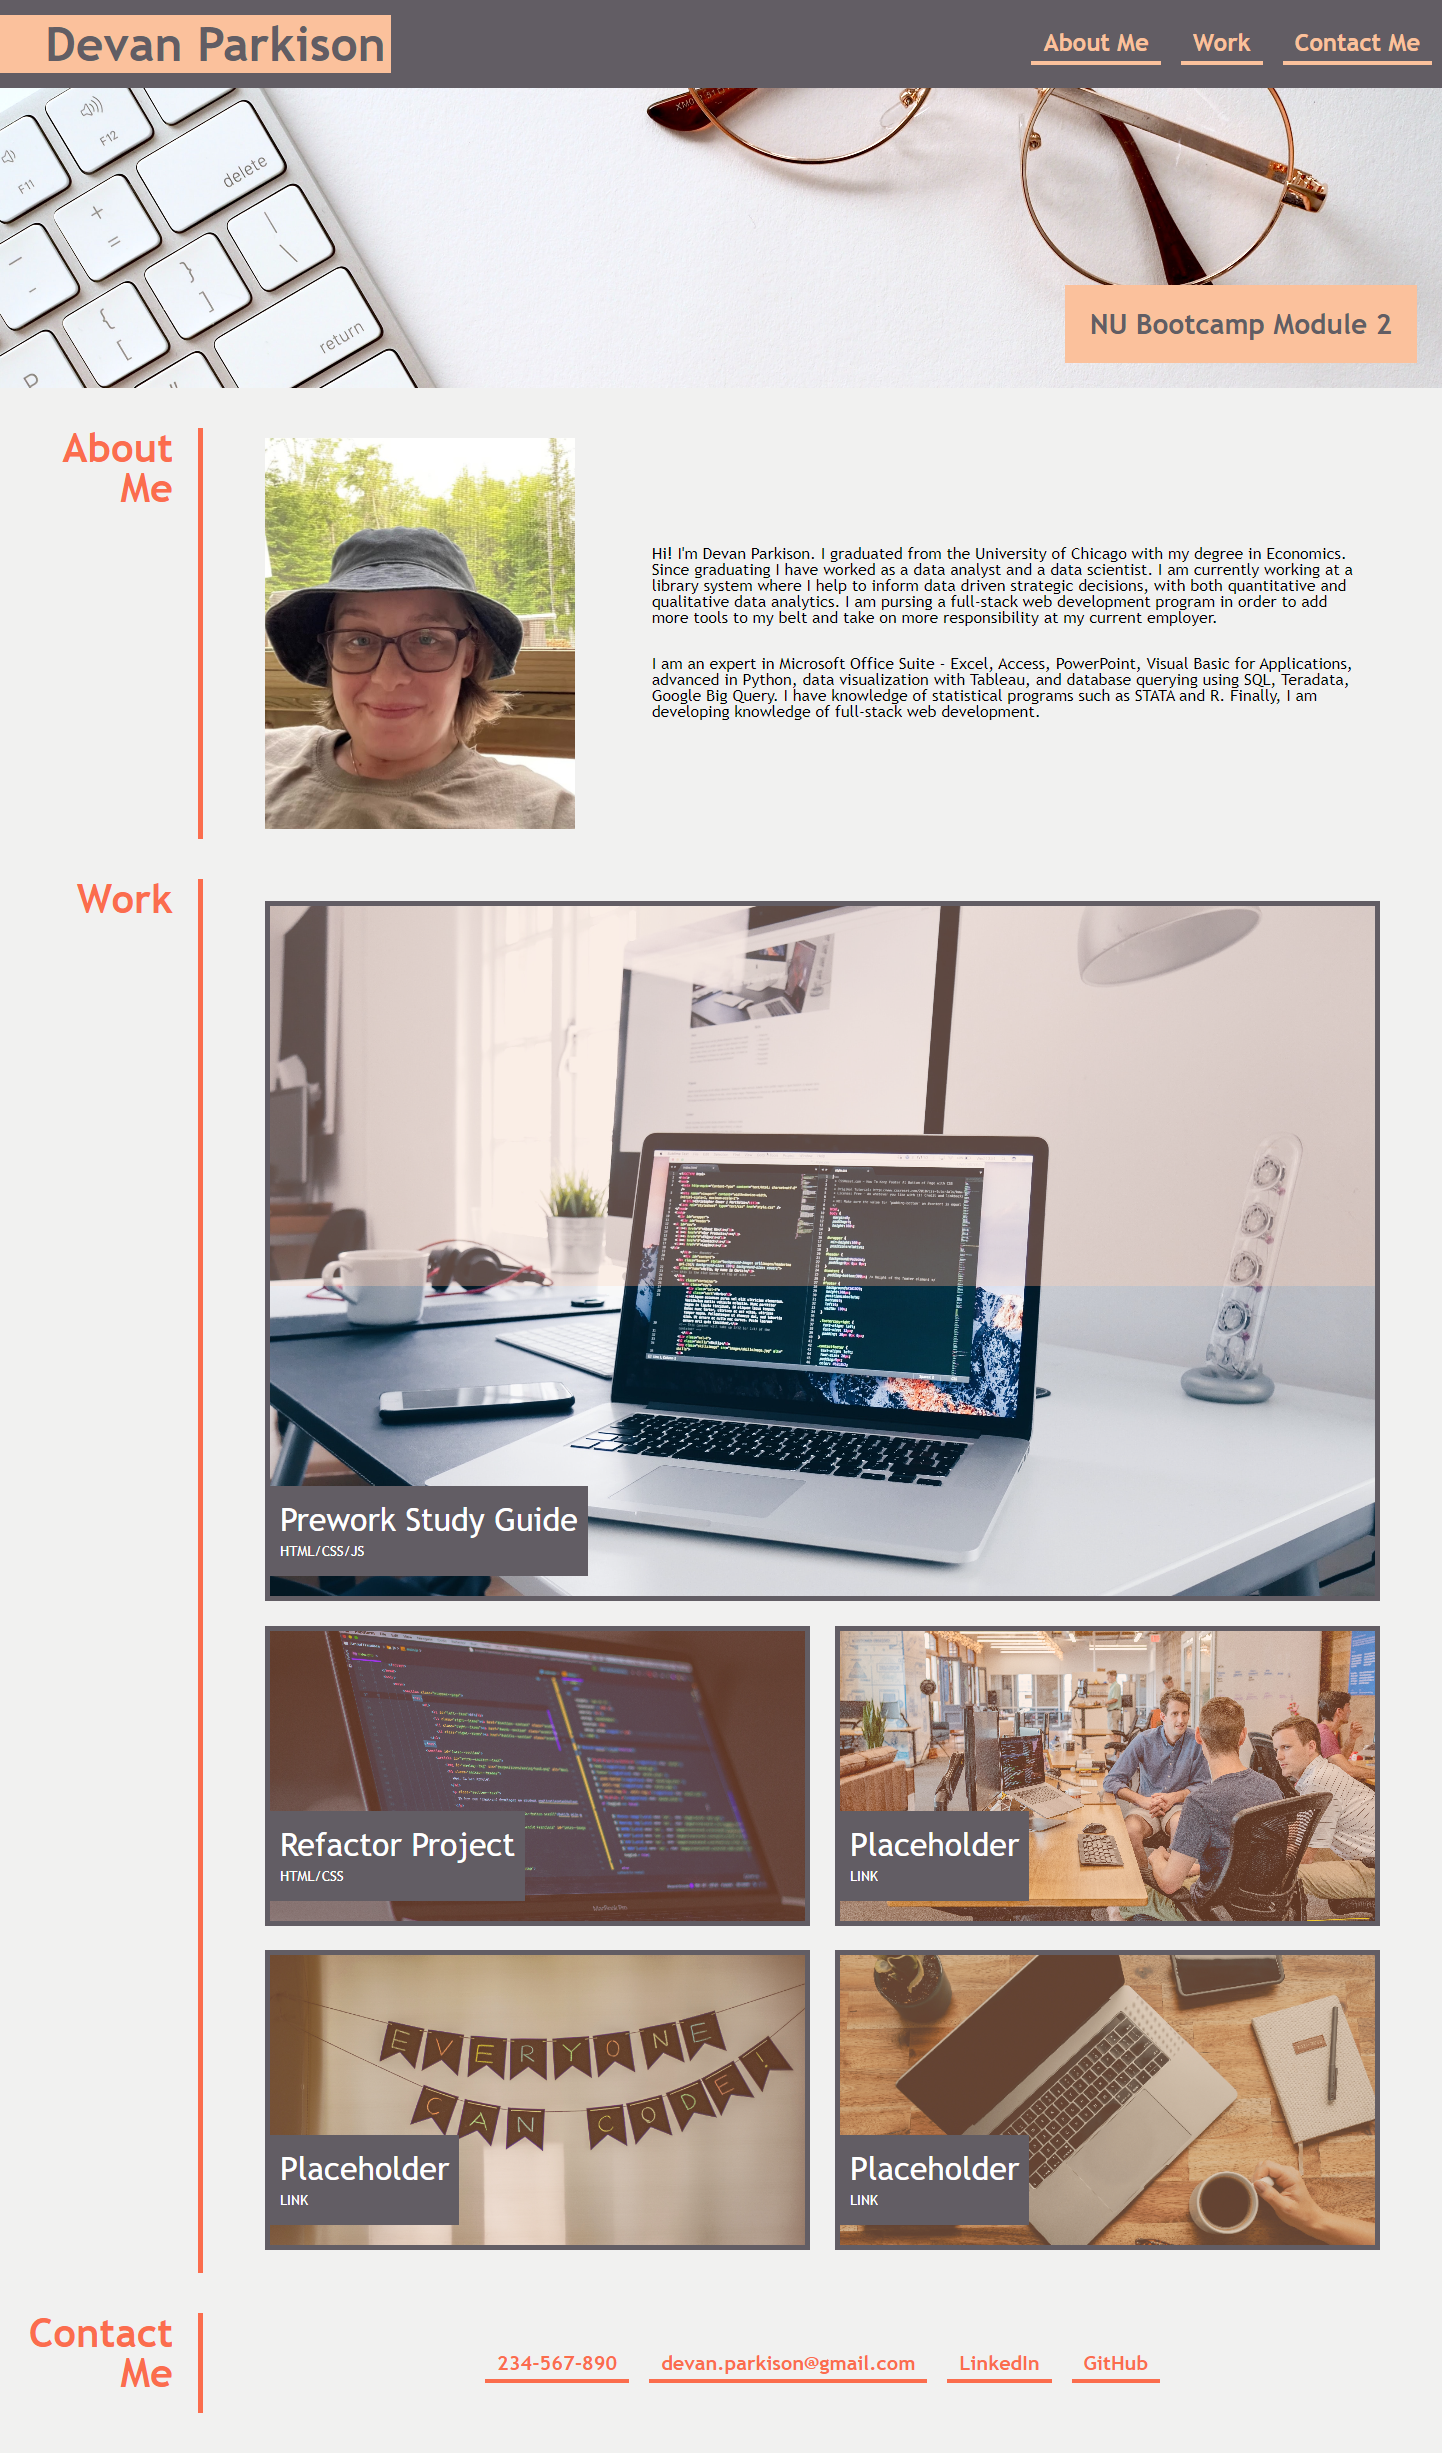
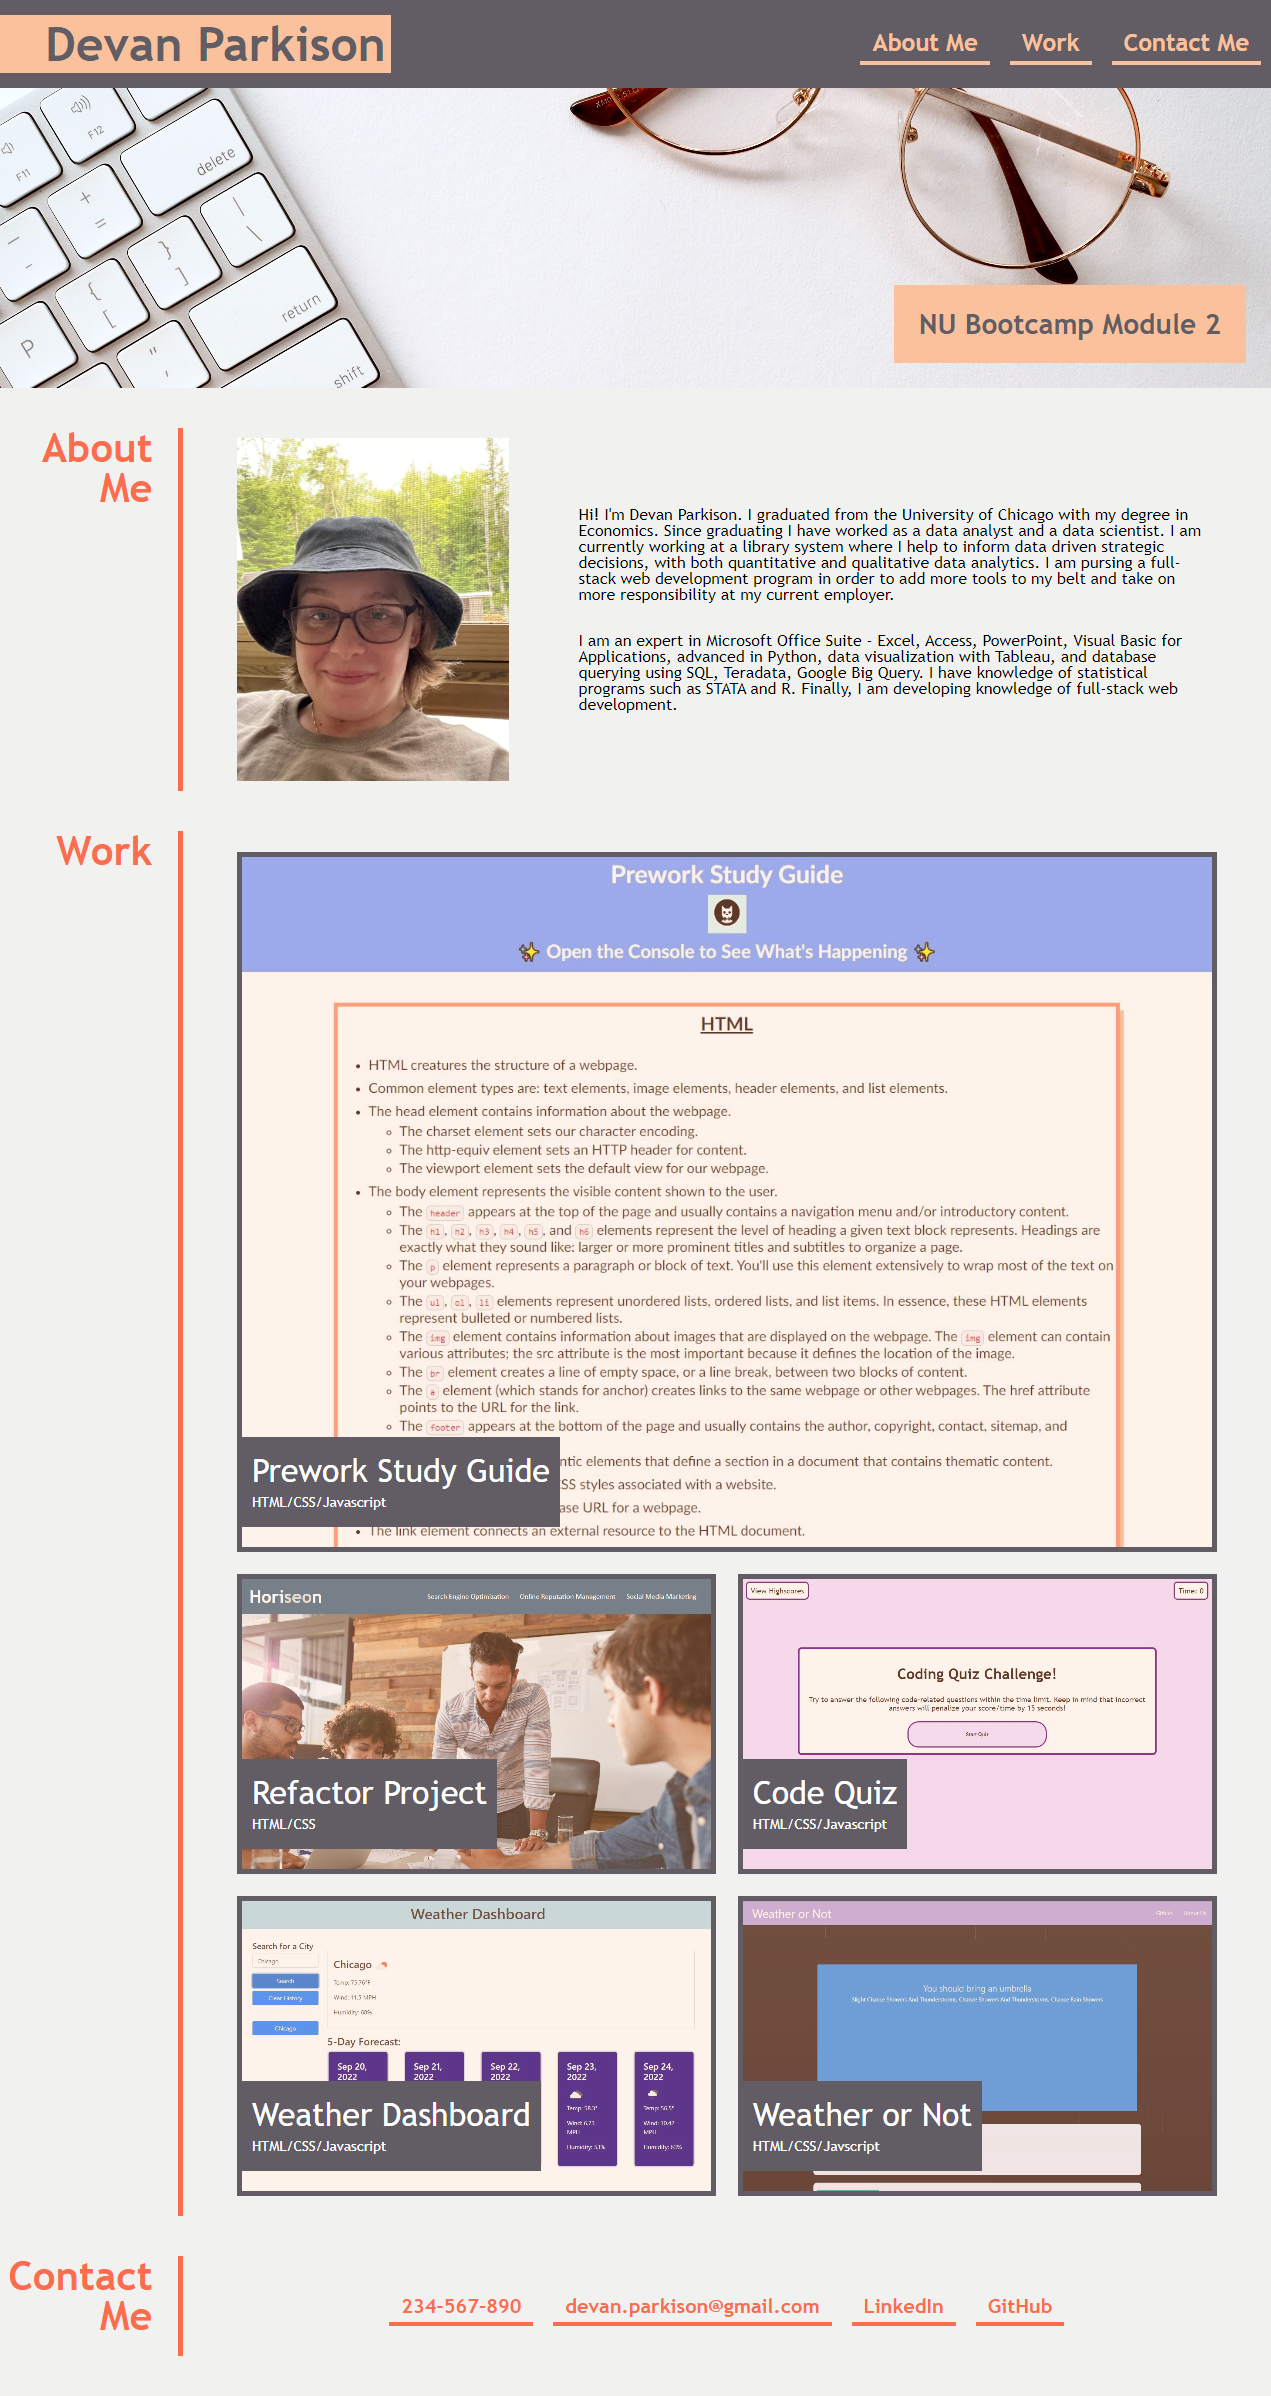
updated project links

diff --git a/index.html b/index.html
@@ -57,31 +57,31 @@
                 <a class="apps" id="first-app" href="https://park-d.github.io/prework-study-guide/" target="_blank">  
                     <div class="project-tag">              
                         <h4>Prework Study Guide</h4>
-                        <p>HTML/CSS/JS</p>
+                        <p>HTML/CSS/Javascript</p>
                     </div>
                 </a>
-                <a class="apps" id=module1 href="https://park-d.github.io/module-1/" target="_blank">
+                <a class="apps" id="module-1" href="https://park-d.github.io/module-1/" target="_blank">
                     <div class="project-tag">
                         <h4>Refactor Project</h4>
                         <p>HTML/CSS</p>
                     </div>
                 </a>
-                <a class="apps" id=placeholder1 href="https://unsplash.com/photos/mpN7xjKQ_Ns" target="_blank">
+                <a class="apps" id="module-4" href="https://park-d.github.io/coding-quiz-module4/" target="_blank">
                     <div class="project-tag">
-                        <h4>Placeholder</h4>
-                        <p>LINK</p>
+                        <h4>Code Quiz</h4>
+                        <p>HTML/CSS/Javascript</p>
                     </div>
                 </a>
-                <a class="apps" id=placeholder2 href="https://unsplash.com/photos/mDinBvq1Sfg" target="_blank">
+                <a class="apps" id="module-6" href="https://park-d.github.io/weather-dashboard/" target="_blank">
                     <div class="project-tag">    
-                        <h4>Placeholder</h4>
-                        <p>LINK</p>
+                        <h4>Weather Dashboard</h4>
+                        <p>HTML/CSS/Javascript</p>
                     </div>
                 </a>
-                <a class="apps" id=placeholder3 href="https://unsplash.com/photos/oO6Gm16Cqcg" target="_blank">
+                <a class="apps" id="project-1" href="https://shengaero.github.io/weather-or-not/" target="_blank">
                     <div class="project-tag">
-                        <h4>Placeholder</h4>
-                        <p>LINK</p>
+                        <h4>Weather or Not</h4>
+                        <p>HTML/CSS/Javscript</p>
                     </div>
                 </a>
         </div>
@@ -97,7 +97,6 @@
         <li><a href="mailto:devan.parkison@gmail.com" target="_blank">devan.parkison@gmail.com</a></li>
         <li><a href="https://www.linkedin.com/in/devanparkison/" target="_blank">LinkedIn</a></li>
         <li><a href="https://github.com/park-d" target="_blank">GitHub</a></li>
-        
     </ul>
 </footer>
 

diff --git a/assets/style.css b/assets/style.css
@@ -136,30 +136,25 @@ section {
 }
 #first-app{
     width: 90%;
-    background-image:url(./images/prework.jpg);
+    background-image:url(./images/prework-study-guide.JPG);
     background-size: cover;
-    background-position: center;
     height: 700px;
 }
-#module1{
-    background-image:url(./images/refactor.jpg);
+#module-1{
+    background-image:url(./images/Full-Webpage-Screenshot.png);
     background-size: cover;
-    background-position: center;
 }
-#placeholder1{
-    background-image:url(./images/stock1.jpg);
-    background-size: cover;
-    background-position: center;
+#module-4{
+    background-image:url(./images/code-quiz-screenshot.JPG);
+    background-size:cover
 }
-#placeholder2{
-    background-image:url(./images/stock2.jpg);
+#module-6{
+    background-image:url(./images/weather-dashboard-screenshot.JPG);
     background-size: cover;
-    background-position: center;
 }
-#placeholder3{
-    background-image:url(./images/stock3.jpg);
+#project-1{
+    background-image: url(./images/weather-or-not.JPG);
     background-size: cover;
-    background-position: center;
 }
 .apps:hover{
     background-color:rgba(0, 0, 0, 0.0) 

diff --git a/README.md b/README.md
@@ -2,7 +2,7 @@
 
 ## Description
 
-In order to learn more Advanced CSS topics, I created my own web application from scratch for my professional developer portfolio. This portfolio of work will showcase my skills and talents to future employers. At this point in my career, my portfolio does not have enough web applications to showcase, so there are placeholder links and images in the "work section".
+In order to learn more Advanced CSS topics, I created my own web application from scratch for my professional developer portfolio. This portfolio of work will showcase my skills and talents to future employers.
 
 ## Installation
 
@@ -12,9 +12,9 @@ N/A
 
 Application deployed at the following link: https://park-d.github.io/module-2/
 
-At the top of the webpage is my name and a nav bar that contains 3 links, one to each major section of the webpage. Each link will take the user to the corresponding section in the webpage. The "About Me" section contains my headshot as well as text about me and my career. The "Work" section has titled images of my applications. Where I did not have enough applications to fill in the section, there are placeholder links. The final section "Contact Me" contains contact information: phone number, email, linkedin, and github.
+At the top of the webpage is my name and a nav bar that contains 3 links, one to each major section of the webpage. Each link will take the user to the corresponding section in the webpage. The "About Me" section contains my headshot as well as text about me and my career. The "Work" section has titled images of my applications. The final section "Contact Me" contains contact information: phone number, email, linkedin, and github.
 
-![Screenhot of full webpage](assets/images/Full-Portfolio-Screenshot.png)
+![Screenhot of full webpage](./assets/images/Full-Portfolio-Screenshot.png)
 
 ## Credits
 
